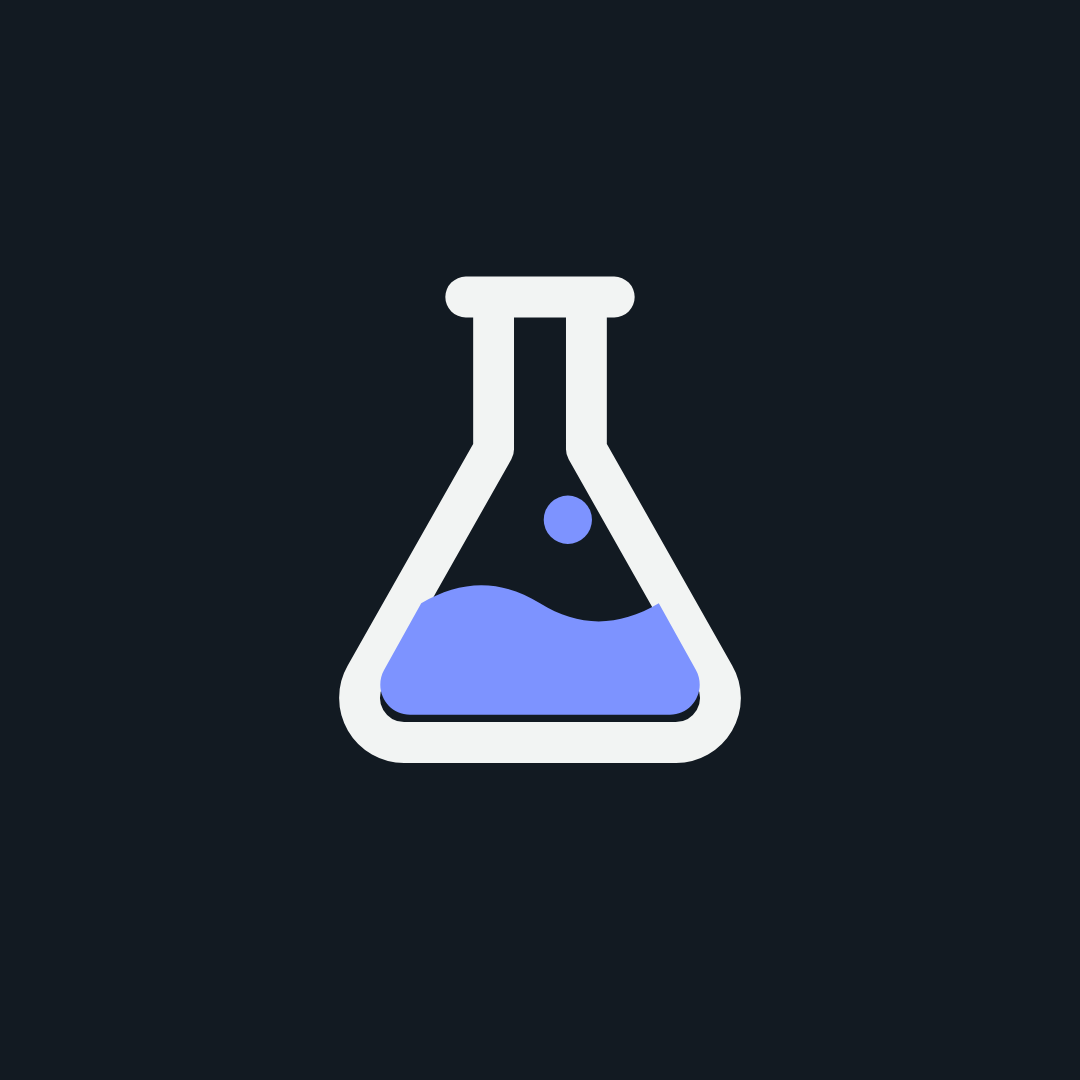
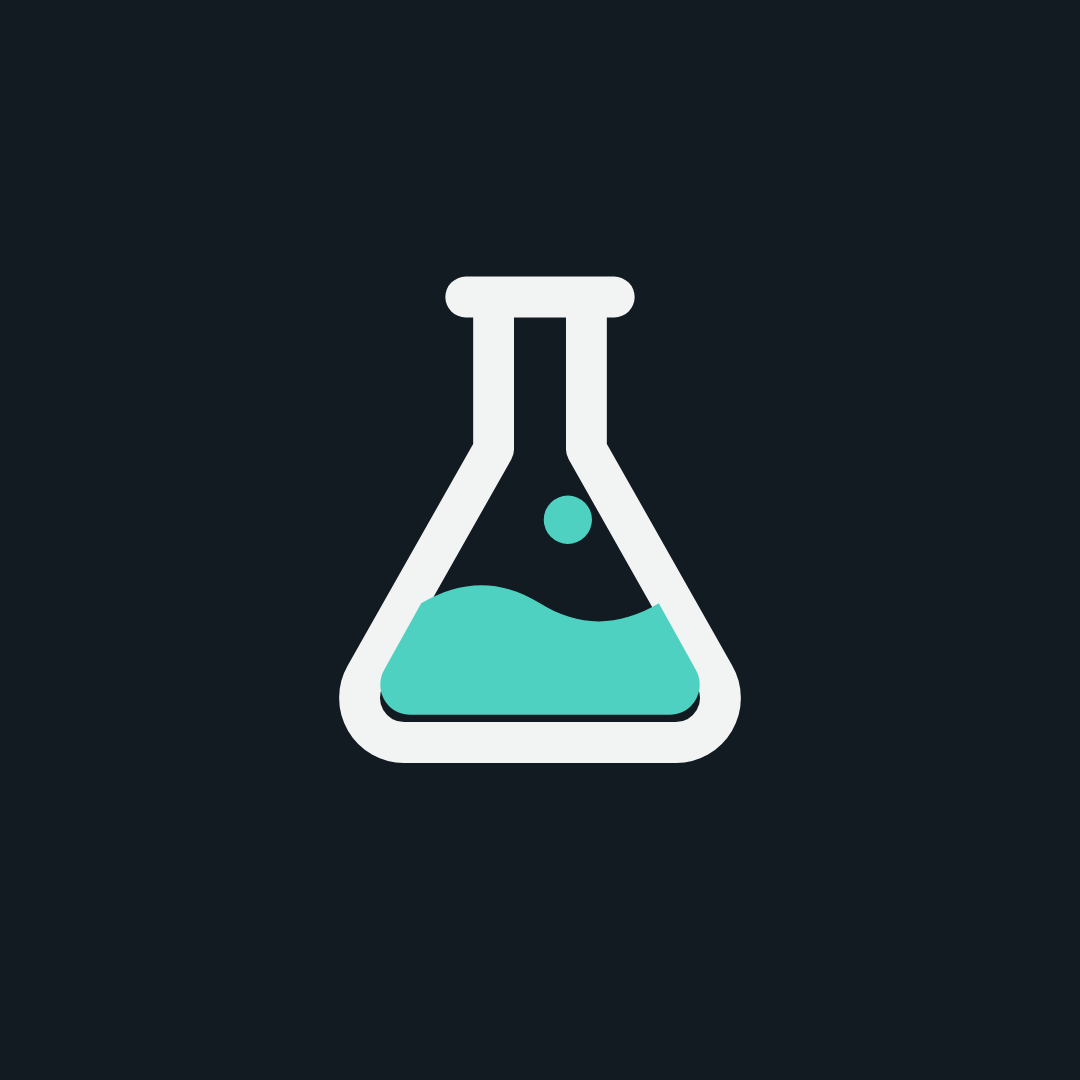
Nuevos precios, oferta de lanzamiento, referidos, color clínica y animaciones
- Precios desde 299 / 599 / 990 € + 39 €/mes, con 30 % para los 3 primeros centros
- Programa de referidos (50 € por centro que contrate) con formulario por Web3Forms
- Paleta verde agua, cinta de sectores, apariciones al hacer scroll y menú móvil sin hamburguesa
- Logo y archivos de marca en el nuevo color

Claude-Session: https://claude.ai/code/session_0146pVekkWH5agP9MkHuniyh

Changed region(s): [[0.3361, 0.5194, 0.6722, 0.6722], [0.4889, 0.4583, 0.55, 0.5194]]

diff --git a/index.html b/index.html
@@ -2,6 +2,7 @@
 <html lang="es">
 <head>
 <meta charset="utf-8">
+<script>document.documentElement.classList.add("js")</script>
 <meta name="viewport" content="width=device-width, initial-scale=1, viewport-fit=cover">
 <link rel="icon" href="favicon.svg" type="image/svg+xml">
 <link rel="apple-touch-icon" href="marca/icono-app.png">
@@ -16,14 +17,15 @@
 <style>
 /* Layout: un laboratorio limpio. Columna editorial a la izquierda, "pruebas" vivas (web + registro de automatizaciones) a la derecha. */
 :root{
-  --bg:#F2F4F3;
+  --bg:#F3F7F6;
   --surface:#FFFFFF;
   --ink:#121A22;
   --muted:#56626C;
   --line:#D9DFE2;
-  --accent:#2944D6;
+  --accent:#0B7A72;
   --accent-ink:#FFFFFF;
-  --accent-soft:#E3E8FB;
+  --accent-soft:#DCF1ED;
+  --accent-2:#5FD3C4;
   --blush:#F3DDD6;
   --blush-ink:#7A3E2E;
   --ok:#1E7A4F;
@@ -36,14 +38,14 @@
 @media (prefers-color-scheme: dark){
   :root:not([data-theme="light"]){
     --bg:#0E1318; --surface:#161D24; --ink:#E9EEF2; --muted:#9AA6B0; --line:#26313B;
-    --accent:#7D93FF; --accent-ink:#0B1020; --accent-soft:#1D2547;
+    --accent:#4FD1C1; --accent-ink:#06201D; --accent-soft:#123630; --accent-2:#4FD1C1;
     --blush:#3A2621; --blush-ink:#F1C2B3; --ok:#5BD49A; --ok-soft:#14301F;
     color-scheme:dark;
   }
 }
 :root[data-theme="dark"]{
   --bg:#0E1318; --surface:#161D24; --ink:#E9EEF2; --muted:#9AA6B0; --line:#26313B;
-  --accent:#7D93FF; --accent-ink:#0B1020; --accent-soft:#1D2547;
+  --accent:#4FD1C1; --accent-ink:#06201D; --accent-soft:#123630; --accent-2:#4FD1C1;
   --blush:#3A2621; --blush-ink:#F1C2B3; --ok:#5BD49A; --ok-soft:#14301F;
   color-scheme:dark;
 }
@@ -86,7 +88,12 @@ header.top{position:sticky;top:env(safe-area-inset-top,0px);z-index:20;backgroun
 .nav-links a{text-decoration:none;color:var(--muted)}
 .nav-links a:hover{color:var(--ink)}
 .nav .btn{padding:12px 18px;font-size:15px}
-@media (max-width:860px){.nav-links{display:none}}
+@media (max-width:860px){
+  .nav{flex-wrap:wrap;row-gap:10px}
+  .nav-links{order:3;width:100%;display:flex;gap:8px;overflow-x:auto;scrollbar-width:none;padding-bottom:2px;-webkit-mask-image:linear-gradient(90deg,#000 85%,transparent)}
+  .nav-links::-webkit-scrollbar{display:none}
+  .nav-links a{flex:0 0 auto;font-size:14px;padding:8px 13px;border-radius:999px;background:var(--surface);border:1px solid var(--line);color:var(--ink)}
+}
 
 /* Hero */
 .hero{padding-block:64px 80px}
@@ -152,7 +159,7 @@ header.top{position:sticky;top:env(safe-area-inset-top,0px);z-index:20;backgroun
 
 /* Caso real */
 .case{background:var(--ink);color:var(--bg)}
-.case .label{color:#9FB0FF}
+.case .label{color:#7FE3D6}
 .case .lead{color:color-mix(in srgb, var(--bg) 72%, transparent)}
 .case-grid{display:grid;grid-template-columns:1fr 1fr;gap:56px;align-items:start}
 .case-list{list-style:none;margin:0;padding:0;display:grid;gap:0;border-top:1px solid color-mix(in srgb, var(--bg) 18%, transparent)}
@@ -310,11 +317,87 @@ input[type=range]{width:100%;accent-color:var(--accent)}
 .legal-docs summary{cursor:pointer;padding:12px 0;font-weight:600;font-size:14.5px}
 .legal-docs p{font-size:14px;color:var(--muted);padding-bottom:12px;max-width:80ch}
 footer{padding-bottom:calc(48px + 70px)}
+
+/* ---------- Color y vida ---------- */
+.hero{position:relative;overflow:hidden}
+.hero::before,.hero::after{content:"";position:absolute;z-index:0;border-radius:50%;filter:blur(60px);opacity:.55;pointer-events:none}
+.hero::before{width:520px;height:520px;background:var(--accent-soft);top:-160px;right:-120px;animation:blob 14s ease-in-out infinite alternate}
+.hero::after{width:380px;height:380px;background:var(--blush);bottom:-160px;left:-120px;animation:blob 18s ease-in-out infinite alternate-reverse}
+.hero .wrap{position:relative;z-index:1}
+@keyframes blob{to{transform:translate(-60px,50px) scale(1.15)}}
+.hero h1 em{background:linear-gradient(90deg,var(--accent),var(--accent-2),var(--accent));background-size:200% auto;-webkit-background-clip:text;background-clip:text;color:transparent;animation:shine 6s linear infinite}
+@keyframes shine{to{background-position:200% center}}
+.hero-copy>*{animation:up .8s cubic-bezier(.2,.7,.2,1) both}
+.hero-copy>*:nth-child(2){animation-delay:.08s}.hero-copy>*:nth-child(3){animation-delay:.16s}.hero-copy>*:nth-child(4){animation-delay:.24s}.hero-copy>*:nth-child(5){animation-delay:.32s}
+.demo{animation:up 1s .2s cubic-bezier(.2,.7,.2,1) both}
+.browser{animation:float 6s ease-in-out 1.2s infinite}
+@keyframes up{from{opacity:0;transform:translateY(26px)}to{opacity:1;transform:none}}
+@keyframes float{50%{transform:translateY(-10px)}}
+
+/* Botones con brillo */
+.btn-primary{position:relative;overflow:hidden;box-shadow:0 10px 24px -12px var(--accent)}
+.btn-primary::after{content:"";position:absolute;inset:0;background:linear-gradient(110deg,transparent 30%,rgba(255,255,255,.35) 50%,transparent 70%);transform:translateX(-120%);transition:transform .6s ease}
+.btn-primary:hover::after{transform:translateX(120%)}
+
+/* Tarjetas que se levantan */
+.svc-group,.plan,.role,.problem-item,.step,.example{transition:transform .25s ease, box-shadow .25s ease}
+.svc-group:hover,.plan:hover,.role:hover{transform:translateY(-4px);box-shadow:0 20px 40px -24px rgba(11,60,56,.35)}
+.svc-list li svg{transition:transform .3s}
+.svc-list li:hover svg{transform:scale(1.2) rotate(-6deg)}
+
+/* Aparición al hacer scroll */
+.js .rv{opacity:0;transform:translateY(28px);transition:opacity .7s ease, transform .7s cubic-bezier(.2,.7,.2,1)}
+.js .rv.in{opacity:1;transform:none}
+
+/* Barra de oferta */
+.promo{display:block;text-decoration:none;background:linear-gradient(90deg,var(--accent),#0E9488,var(--accent));background-size:200% auto;animation:shine 8s linear infinite;color:#fff;font-size:14px;text-align:center}
+.promo-in{display:block;padding:9px max(16px, env(safe-area-inset-left,0px))}
+.promo-cta{font-weight:700;text-decoration:underline;text-underline-offset:3px;white-space:nowrap}
+.offer-pill{display:inline-flex;align-items:center;gap:10px;justify-self:start;max-width:100%;font-size:15px;padding:10px 16px;border-radius:999px;background:var(--accent-soft);color:var(--ink)}
+.offer-pill b{color:var(--accent)}
+.pulse{width:10px;height:10px;border-radius:50%;background:var(--accent);box-shadow:0 0 0 0 var(--accent);animation:pulse 1.8s infinite;flex:0 0 auto}
+@keyframes pulse{70%{box-shadow:0 0 0 10px transparent}100%{box-shadow:0 0 0 0 transparent}}
+
+/* Precios con descuento */
+.plan-price{display:grid;gap:2px}
+.plan-price .old{font:500 15px/1 var(--f-mono);color:var(--muted);text-decoration:line-through}
+.plan-price .now{font:700 30px/1.1 var(--f-display);color:var(--ink)}
+.plan-price .now em{font:500 14px var(--f-body);font-style:normal;color:var(--muted)}
+.plan{position:relative}
+.plan::before{content:"-30 %";position:absolute;top:-12px;right:18px;font:700 12px/1 var(--f-mono);background:var(--accent);color:var(--accent-ink);padding:7px 9px;border-radius:999px}
+
+/* Cinta de sectores */
+.marquee{overflow:hidden;border-block:1px solid var(--line);background:var(--surface);padding-block:18px;margin-bottom:88px;-webkit-mask-image:linear-gradient(90deg,transparent,#000 10%,#000 90%,transparent)}
+.marquee-track{display:flex;align-items:center;gap:28px;width:max-content;animation:marquee 32s linear infinite}
+.marquee span{font:700 clamp(18px,2.4vw,26px)/1 var(--f-display);white-space:nowrap;letter-spacing:-.01em}
+.marquee i{width:10px;height:10px;border-radius:50%;background:var(--accent-2);flex:0 0 auto}
+@keyframes marquee{to{transform:translateX(-50%)}}
+
+/* Referidos */
+.refer{background:linear-gradient(160deg,var(--accent-soft),var(--bg) 70%)}
+.refer-grid{display:grid;grid-template-columns:1fr 1fr;gap:56px;align-items:center}
+.refer-copy{display:grid;gap:18px}
+.refer-steps{list-style:none;margin:8px 0 0;padding:0;display:grid;gap:14px}
+.refer-steps li{display:grid;grid-template-columns:40px 1fr;gap:14px;align-items:start}
+.rs-n{width:40px;height:40px;border-radius:12px;background:var(--accent);color:var(--accent-ink);display:grid;place-items:center;font:700 16px var(--f-display)}
+.refer-steps b{display:block}
+.refer-steps span:not(.rs-n){color:var(--muted);font-size:15px}
+.refer-note{font:500 13.5px/1.5 var(--f-mono);color:var(--accent)}
+.refer-card{position:relative;padding-top:36px}
+.refer-ticket{position:absolute;top:0;right:24px;z-index:2;background:var(--ink);color:var(--bg);border-radius:16px;padding:14px 18px;display:grid;justify-items:center;transform:rotate(6deg);animation:wobble 4s ease-in-out infinite;box-shadow:0 18px 30px -18px rgba(0,0,0,.6)}
+.refer-ticket span{font:700 30px/1 var(--f-display);color:var(--accent-2)}
+.refer-ticket small{font:500 11px/1.4 var(--f-mono);text-transform:uppercase;letter-spacing:.06em}
+@keyframes wobble{50%{transform:rotate(1deg) translateY(-6px)}}
+.refer-form{background:var(--surface)}
+@media (max-width:860px){.refer-grid{grid-template-columns:1fr;gap:36px}}
+
+@media (prefers-reduced-motion: reduce){.js .rv{opacity:1;transform:none}.marquee-track{animation:none}}
 </style>
 
 <style>:root{padding-top:env(safe-area-inset-top,0px);padding-bottom:env(safe-area-inset-bottom,0px)}body{margin:0}img{max-width:100%}.hp{display:none!important}</style>
 </head>
 <body>
+<a class="promo" href="#planes"><span class="promo-in"><b>Oferta de lanzamiento</b> · 30 % de descuento en tu web para los 3 primeros centros <span class="promo-cta">Ver planes →</span></span></a>
 <header class="top">
   <div class="wrap nav">
     <a class="brand" href="#inicio" aria-label="ABBA Business Lab, inicio">
@@ -327,6 +410,7 @@ footer{padding-bottom:calc(48px + 70px)}
       <a href="#caso">Caso real</a>
       <a href="#proceso">Cómo trabajamos</a>
       <a href="#planes">Planes</a>
+      <a href="#referidos">Referidos</a>
       <a href="#faq">Preguntas</a>
     </nav>
     <a class="btn btn-primary" href="#contacto">Pide tu maqueta gratis</a>
@@ -491,13 +575,16 @@ footer{padding-bottom:calc(48px + 70px)}
           </ul>
         </div>
       </div>
-      <div class="sectors" aria-label="Sectores con los que trabajamos">
-        <span class="main">Centros de estética</span>
-        <span class="main">Clínicas</span>
-        <span>Medicina estética</span><span>Dental</span><span>Fisioterapia</span><span>Podología</span><span>Psicología</span><span>Peluquería y barbería</span>
-      </div>
+      
     </div>
   </section>
+
+  <div class="marquee" aria-label="Sectores con los que trabajamos">
+    <div class="marquee-track">
+      <span>Centros de estética</span><i></i><span>Clínicas dentales</span><i></i><span>Medicina estética</span><i></i><span>Fisioterapia</span><i></i><span>Podología</span><i></i><span>Psicología</span><i></i><span>Peluquería y barbería</span><i></i><span>Nutrición</span><i></i>
+      <span aria-hidden="true">Centros de estética</span><i></i><span aria-hidden="true">Clínicas dentales</span><i></i><span aria-hidden="true">Medicina estética</span><i></i><span aria-hidden="true">Fisioterapia</span><i></i><span aria-hidden="true">Podología</span><i></i><span aria-hidden="true">Psicología</span><i></i><span aria-hidden="true">Peluquería y barbería</span><i></i><span aria-hidden="true">Nutrición</span><i></i>
+    </div>
+  </div>
 
   <!-- EJEMPLO DEL SECTOR -->
   <section id="ejemplo" style="padding-top:0">
@@ -564,25 +651,61 @@ footer{padding-bottom:calc(48px + 70px)}
         <span class="label">Planes</span>
         <h2>Empieza por lo que necesitas hoy.</h2>
         <p class="lead">Precios de partida, IVA no incluido. Te damos un precio cerrado después de ver tu maqueta.</p>
+        <div class="offer-pill"><span class="pulse" aria-hidden="true"></span>Oferta de lanzamiento: <b>30 % de descuento</b> para los 3 primeros centros</div>
       </div>
       <div class="plans">
         <div class="plan">
           <div class="plan-top"><span class="tag">Presencia</span><h3>Web básica</h3></div>
-          <div class="plan-price">Desde 390 €<small>Pago único. Para centros que aún no tienen web.</small></div>
+          <div class="plan-price"><span class="old">299 €</span><span class="now"><em>Desde</em> 209 €</span><small>Pago único. Precio normal desde 299 €.</small></div>
           <ul><li>Web de una página</li><li>Tratamientos y precios</li><li>Botón de WhatsApp y llamada</li><li>Mapa, horario y reseñas</li></ul>
           <a class="btn btn-ghost" href="#contacto" data-plan="Web básica">Pedir maqueta</a>
         </div>
         <div class="plan featured">
           <div class="plan-top"><span class="tag">El más pedido</span><h3>Web con reservas</h3></div>
-          <div class="plan-price">Desde 790 €<small>Pago único. Para llenar la agenda sin coger el teléfono.</small></div>
+          <div class="plan-price"><span class="old">599 €</span><span class="now"><em>Desde</em> 419 €</span><small>Pago único. Precio normal desde 599 €.</small></div>
           <ul><li>Todo lo de Web básica</li><li>Varias páginas y galería</li><li>Reservas online 24 h</li><li>Confirmaciones y recordatorios</li><li>SEO local</li></ul>
           <a class="btn btn-primary" href="#contacto" data-plan="Web con reservas">Pedir maqueta</a>
         </div>
         <div class="plan">
           <div class="plan-top"><span class="tag">Gestión completa</span><h3>Web + automatización</h3></div>
-          <div class="plan-price">Desde 1.290 €<small>+ 49 €/mes de mantenimiento. Para delegar toda la parte digital.</small></div>
+          <div class="plan-price"><span class="old">990 €</span><span class="now"><em>Desde</em> 693 €</span><small>+ 39 €/mes de mantenimiento. Precio normal desde 990 €.</small></div>
           <ul><li>Todo lo de Web con reservas</li><li>Fichas de clientas y área privada</li><li>Cobro de señales online</li><li>Mantenimiento mensual</li><li>Mejoras continuas</li></ul>
           <a class="btn btn-ghost" href="#contacto" data-plan="Web + automatización">Pedir maqueta</a>
+        </div>
+      </div>
+    </div>
+  </section>
+
+  <!-- REFERIDOS -->
+  <section class="refer" id="referidos">
+    <div class="wrap refer-grid">
+      <div class="refer-copy">
+        <span class="label">Programa de referidos</span>
+        <h2>Recomienda un centro y gana 50 €.</h2>
+        <p class="lead">¿Conoces una clínica o un centro de estética que necesite web? Pásanos su contacto. Si contrata, tú te llevas 50 € y ellos un 10 % de descuento.</p>
+        <ol class="refer-steps">
+          <li><span class="rs-n">1</span><div><b>Nos dices quién</b><span>Su nombre y cómo contactarle.</span></div></li>
+          <li><span class="rs-n">2</span><div><b>Le preparamos su maqueta</b><span>Gratis, como a todos.</span></div></li>
+          <li><span class="rs-n">3</span><div><b>Si contrata, cobras</b><span>50 € por Bizum o transferencia.</span></div></li>
+        </ol>
+        <p class="refer-note">Sin límite: 3 centros recomendados que contraten son 150 €.</p>
+      </div>
+      <div class="refer-card">
+        <div class="refer-ticket" aria-hidden="true"><span>50 €</span><small>por cada centro</small></div>
+        <form id="ref-form" class="refer-form" name="referido" novalidate>
+          <input type="hidden" name="subject" value="Nuevo referido · ABBA Business Lab"><input type="hidden" name="from_name" value="Web ABBA Business Lab"><input type="hidden" name="formulario" value="referido"><input type="checkbox" name="botcheck" class="hp" tabindex="-1" autocomplete="off" aria-hidden="true">
+          <div class="row2">
+            <div class="field"><label for="r-name">Tu nombre</label><input id="r-name" name="tu_nombre" type="text" autocomplete="name" placeholder="Tu nombre" required><span class="err" hidden>Escribe tu nombre.</span></div>
+            <div class="field"><label for="r-phone">Tu teléfono</label><input id="r-phone" name="tu_telefono" type="tel" autocomplete="tel" placeholder="600 000 000" required><span class="err" hidden>Escribe un teléfono válido.</span></div>
+          </div>
+          <div class="field"><label for="r-biz">Centro que recomiendas</label><input id="r-biz" name="centro_recomendado" type="text" placeholder="Nombre y ciudad" required><span class="err" hidden>Escribe el nombre del centro.</span></div>
+          <div class="field"><label for="r-contact">Contacto del centro <span class="hint">(opcional)</span></label><input id="r-contact" name="contacto_centro" type="text" placeholder="Teléfono, persona o Instagram"></div>
+          <button class="btn btn-primary" type="submit">Enviar recomendación</button>
+          <span class="err send-err" hidden>No se ha podido enviar. Inténtalo de nuevo o escríbenos por WhatsApp.</span>
+        </form>
+        <div class="success" id="ref-ok" hidden role="status" aria-live="polite">
+          <h3>¡Gracias por recomendarnos!</h3>
+          <p>Contactaremos con el centro y te avisamos por WhatsApp de cómo va.</p>
         </div>
       </div>
     </div>
@@ -609,6 +732,7 @@ footer{padding-bottom:calc(48px + 70px)}
     <div class="wrap">
       <div class="sec-head"><span class="label">Preguntas frecuentes</span><h2>Lo que nos suelen preguntar.</h2></div>
       <div class="faq">
+        <details><summary>¿Cómo funciona la oferta de lanzamiento?</summary><p>Los 3 primeros centros que contraten su web tienen un 30 % de descuento sobre el precio del plan. A cambio, nos dejas enseñar tu web como ejemplo y, si quedas contento, una reseña en Google.</p></details>
         <details open><summary>¿De verdad la maqueta es gratis?</summary><p>Sí. Te preparamos una web de prueba con los datos de tu negocio para que veas cómo quedaría. Si no te convence, no pagas nada.</p></details>
         <details><summary>¿Cuánto tardáis en tenerla lista?</summary><p>La maqueta, en pocos días. La web terminada depende de las automatizaciones que elijas y de lo rápido que tengamos tus textos y fotos.</p></details>
         <details><summary>No tengo fotos profesionales. ¿Es un problema?</summary><p>No. Empezamos con las fotos de tu ficha de Google y tus redes, y te decimos qué fotos merece la pena hacer para que la web luzca más.</p></details>
@@ -688,7 +812,7 @@ footer{padding-bottom:calc(48px + 70px)}
         <p>Páginas web con automatizaciones para centros de estética y clínicas de toda España.</p>
       </div>
       <div><h4>Secciones</h4><ul><li><a href="#servicios">Servicios</a></li><li><a href="#caso">Caso real</a></li><li><a href="#proceso">Cómo trabajamos</a></li><li><a href="#planes">Planes</a></li><li><a href="#faq">Preguntas</a></li></ul></div>
-      <div><h4>Contacto</h4><ul><li>WhatsApp: <a href="https://wa.me/34634606212" target="_blank" rel="noopener">634 60 62 12</a></li><li>Teléfono: <a href="tel:+34634606212">634 60 62 12</a></li><li>Email: <a href="mailto:infoabbabusinesslab@gmail.com">infoabbabusinesslab@gmail.com</a></li><li>Instagram: [@tuperfil]</li><li><a href="#legal">Aviso legal y privacidad</a></li></ul></div>
+      <div><h4>Contacto</h4><ul><li>WhatsApp: <a href="https://wa.me/34634606212" target="_blank" rel="noopener">634 60 62 12</a></li><li>Teléfono: <a href="tel:+34634606212">634 60 62 12</a></li><li>Email: <a href="mailto:infoabbabusinesslab@gmail.com">infoabbabusinesslab@gmail.com</a></li><li><a href="#legal">Aviso legal y privacidad</a></li></ul></div>
     </div>
     <div class="legal-docs" id="legal">
       <details><summary>Aviso legal</summary>
@@ -747,14 +871,20 @@ footer{padding-bottom:calc(48px + 70px)}
 
   // Calculadora
   var fmt=new Intl.NumberFormat('es-ES');
+  var cur={};
+  function tween(id,to,suf){
+    var el=document.getElementById(id), from=cur[id]||0; cur[id]=to;
+    if(reduce){ el.textContent=fmt.format(to)+suf; return; }
+    var t0=performance.now();
+    (function step(t){ var k=Math.min(1,(t-t0)/450), v=Math.round(from+(to-from)*(1-Math.pow(1-k,3))); el.textContent=fmt.format(v)+suf; if(k<1) requestAnimationFrame(step); })(t0);
+  }
   function calc(){
     var calls=+document.getElementById('c-calls').value, rate=+document.getElementById('c-rate').value, price=+document.getElementById('c-price').value;
     document.getElementById('o-calls').textContent=calls;
     document.getElementById('o-rate').textContent=rate+' %';
     document.getElementById('o-price').textContent=price+' €';
     var appts=Math.round(calls*4.3*rate/100);
-    document.getElementById('r-appts').textContent=fmt.format(appts);
-    document.getElementById('r-money').textContent=fmt.format(appts*price)+' €';
+    tween('r-appts',appts,''); tween('r-money',appts*price,' €');
   }
   ['c-calls','c-rate','c-price'].forEach(function(id){ document.getElementById(id).addEventListener('input',calc); });
   calc();
@@ -790,6 +920,20 @@ footer{padding-bottom:calc(48px + 70px)}
         .then(function(){ btn.disabled=false; });
     });
   }
+
+  // Aparición al hacer scroll
+  if(!reduce && 'IntersectionObserver' in window){
+    var sel='.sec-head,.problem-item,.svc-group,.example,.case-list li,.step,.plan,.role,.faq details,.calc-box,.refer-card,.refer-steps li,.contact-aside,#lead-form';
+    var io=new IntersectionObserver(function(es){ es.forEach(function(e){ if(e.isIntersecting){ e.target.classList.add('in'); io.unobserve(e.target); } }); },{threshold:.12,rootMargin:'0px 0px -40px 0px'});
+    document.querySelectorAll(sel).forEach(function(el){
+      var sib=el.parentElement?Array.prototype.indexOf.call(el.parentElement.children,el):0;
+      el.style.transitionDelay=Math.min(sib,5)*70+'ms'; el.classList.add('rv'); io.observe(el);
+    });
+  } else { document.documentElement.classList.remove('js'); }
+
+  // Formulario de referidos
+  var refForm=document.getElementById('ref-form'), refOk=document.getElementById('ref-ok');
+  wire(refForm,'#r-name,#r-phone,#r-biz',function(){ refForm.hidden=true; refOk.hidden=false; });
 
   // Formulario de análisis
   var auditForm=document.getElementById('audit-form'), auditOk=document.getElementById('audit-ok');
